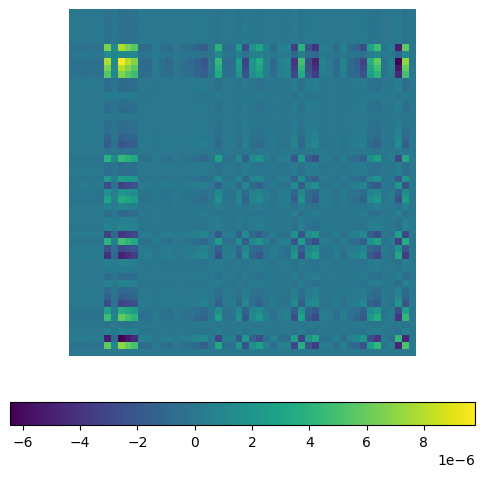
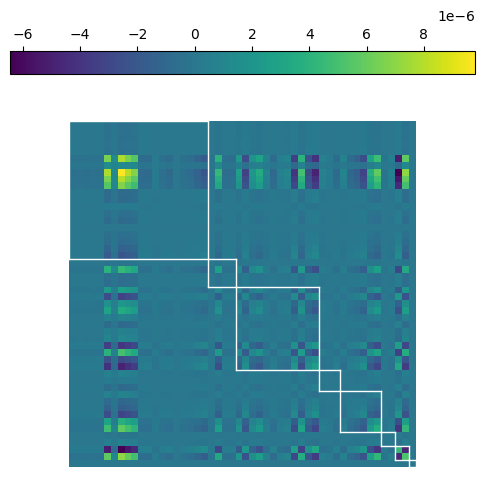
[ADD] Highlight blocks, create visualizations in paper

diff --git a/kfac_pinns_exp/exp04_gramian_contributions/demo_visualize_contributions.py b/kfac_pinns_exp/exp04_gramian_contributions/demo_visualize_contributions.py
@@ -2,8 +2,10 @@
 
 from itertools import product
 from os import makedirs, path
+from typing import List
 
 import matplotlib.pyplot as plt
+from numpy import cumsum
 from torch import allclose, manual_seed, rand, zeros_like
 from torch.nn import Linear, Sequential, Sigmoid
 
@@ -19,6 +21,34 @@ from kfac_pinns_exp.utils import combine_tiles, separate_into_tiles
 HEREDIR = path.dirname(path.abspath(__file__))
 FIGDIR = path.join(HEREDIR, "fig")
 makedirs(FIGDIR, exist_ok=True)
+
+
+def highlight_block_diagonal(ax: plt.Axes, dims: List[int]):
+    """Highlight block diagonals.
+
+    Args:
+        ax: Axes onto which the highlighting will be applied.
+        dims: Dimensions of the blocks on the diagonal.
+    """
+    style = {
+        "linewidth": 1,
+        "color": "w",
+    }
+
+    boundaries = cumsum([0] + dims)
+    # need to provide relative values in [0; 1] for line lengths
+    boundaries_rel = boundaries / boundaries[-1]
+
+    for i in range(len(boundaries) - 1):
+        start, end = boundaries[i : i + 2]
+        start_rel, end_rel = boundaries_rel[i : i + 2]
+
+        # NOTE imshow centers pixels at integers -> shift by -0.5
+        # NOTE y axis orientation for imshow is inverse of that for axvline -> 1-...
+        ax.axhline(y=start - 0.5, xmin=start_rel, xmax=end_rel, **style)
+        ax.axhline(y=end - 0.5, xmin=start_rel, xmax=end_rel, **style)
+        ax.axvline(x=start - 0.5, ymin=1 - start_rel, ymax=1 - end_rel, **style)
+        ax.axvline(x=end - 0.5, ymin=1 - start_rel, ymax=1 - end_rel, **style)
 
 
 def main():
@@ -77,8 +107,7 @@ def main():
     # make sure the contributions sum up to the full Gramian
     assert allclose(sum(contributions.values()), gram)
 
-    # visualize the contributions, use a shared color limit
-
+    # use a shared color limit
     vmin = min(*[c.min() for c in contributions.values()], gram.min())
     vmax = max(*[c.max() for c in contributions.values()], gram.max())
 
@@ -86,9 +115,27 @@ def main():
     fig, ax = plt.subplots(figsize=(6, 6))
     ax.axis("off")  # turn off ticks and tick labels
     im = ax.imshow(gram, vmin=vmin, vmax=vmax)
+    highlight_block_diagonal(ax, dims)
     # positioning of the color bar from https://stackoverflow.com/a/43425119
-    fig.colorbar(im, orientation="horizontal", pad=0.1)
+    fig.colorbar(im, orientation="horizontal", location="top", pad=0.1)
     fig.savefig(path.join(FIGDIR, "gram_full.png"), bbox_inches="tight")
+    plt.close(fig)
+
+    # visualize the block-diagonal Gram matrix
+    block_diag_gram = separate_into_tiles(gram, dims)
+    # set off-diagonal blocks to zero
+    for i, j in product(range(len(dims)), range(len(dims))):
+        print(i, j)
+        if i != j:
+            block_diag_gram[i][j] = zeros_like(block_diag_gram[i][j])
+    block_diag_gram = combine_tiles(block_diag_gram)
+
+    fig, ax = plt.subplots(figsize=(6, 6))
+    ax.axis("off")  # turn off ticks and tick labels
+    im = ax.imshow(block_diag_gram, vmin=vmin, vmax=vmax)
+    highlight_block_diagonal(ax, dims)
+    # positioning of the color bar from https://stackoverflow.com/a/43425119
+    fig.savefig(path.join(FIGDIR, "gram_block_diag.png"), bbox_inches="tight")
     plt.close(fig)
 
     # visualize the contributions
@@ -104,11 +151,34 @@ def main():
         fig, ax = plt.subplots(figsize=(6, 6))
         ax.axis("off")  # turn off ticks and tick labels
         im = ax.imshow(mat, vmin=vmin, vmax=vmax)
+        highlight_block_diagonal(ax, dims)
         plt.savefig(
             path.join(FIGDIR, f"gram_{child1}_{child2}.png"), bbox_inches="tight"
         )
         plt.close(fig)
         done.append({child1, child2})
+
+    # visualize the sum of terms from identical children
+    diag_children = sum(contributions[(c, c)] for c in CHILDREN)
+
+    fig, ax = plt.subplots(figsize=(6, 6))
+    ax.axis("off")  # turn off ticks and tick labels
+    im = ax.imshow(diag_children, vmin=vmin, vmax=vmax)
+    highlight_block_diagonal(ax, dims)
+    plt.savefig(path.join(FIGDIR, "gram_diag_children.png"), bbox_inches="tight")
+    plt.close(fig)
+
+    # visualize the sum of terms from different children
+    offdiag_children = sum(
+        contributions[(c1, c2)] for c1, c2 in product(CHILDREN, CHILDREN) if c1 != c2
+    )
+
+    fig, ax = plt.subplots(figsize=(6, 6))
+    ax.axis("off")  # turn off ticks and tick labels
+    im = ax.imshow(offdiag_children, vmin=vmin, vmax=vmax)
+    highlight_block_diagonal(ax, dims)
+    plt.savefig(path.join(FIGDIR, "gram_offdiag_children.png"), bbox_inches="tight")
+    plt.close(fig)
 
 
 if __name__ == "__main__":

diff --git a/paper/sections/laplacian_feedforward_nn.tex b/paper/sections/laplacian_feedforward_nn.tex
@@ -476,6 +476,73 @@ self-outer product forms the Gramian for a linear layer, as
 where (1) is the contribution from the forward pass, (2) is the contribution from the gradient backpropagation, and (3) is the contribution from the Hessian backpropagation.
 \toodoo{Visualize the different contributions on a $3\times 3$ grid.}
 
+
+\begin{figure}
+  \centering
+  Full Gramian\\
+  \includegraphics[width=0.43\linewidth]{../kfac_pinns_exp/exp04_gramian_contributions/fig/gram_full.png}
+
+  \begin{tabular}{ccc}
+    (forward, forward)
+    &
+      (forward, gradient)
+    &
+      (forward, Hessian)
+    \\
+    \includegraphics[width=0.33\linewidth]{../kfac_pinns_exp/exp04_gramian_contributions/fig/gram_output_output.png}
+    &
+      \includegraphics[width=0.33\linewidth]{../kfac_pinns_exp/exp04_gramian_contributions/fig/gram_output_grad_input.png}
+    &
+      \includegraphics[width=0.33\linewidth]{../kfac_pinns_exp/exp04_gramian_contributions/fig/gram_output_hess_input.png}
+    \\
+    &
+      (gradient, gradient)
+    &
+      (gradient, Hessian)
+    \\
+    &
+      \includegraphics[width=0.33\linewidth]{../kfac_pinns_exp/exp04_gramian_contributions/fig/gram_grad_input_grad_input.png}
+    &
+      \includegraphics[width=0.33\linewidth]{../kfac_pinns_exp/exp04_gramian_contributions/fig/gram_grad_input_hess_input.png}
+    \\
+    &
+    &
+      (Hessian, Hessian)
+    \\
+    &
+    &
+      \includegraphics[width=0.33\linewidth]{../kfac_pinns_exp/exp04_gramian_contributions/fig/gram_hess_input_hess_input.png}
+  \end{tabular}
+  \caption{Contributions to the Gramian from different children in the
+    computation graph.}\label{fig:gramian-contribution-children}
+\end{figure}
+
+\begin{figure}
+  \centering
+  Full Gramian\\
+  \includegraphics[width=0.43\linewidth]{../kfac_pinns_exp/exp04_gramian_contributions/fig/gram_full.png}
+
+  \begin{minipage}[t]{0.325\linewidth}
+    \centering
+    Block diagonal
+    \includegraphics[width=\linewidth]{../kfac_pinns_exp/exp04_gramian_contributions/fig/gram_block_diag.png}
+  \end{minipage}
+  \hfill
+  \begin{minipage}[t]{0.325\linewidth}
+    \centering
+    Summed children diagonal
+    \includegraphics[width=\linewidth]{../kfac_pinns_exp/exp04_gramian_contributions/fig/gram_diag_children.png}
+  \end{minipage}
+  \hfill
+  \begin{minipage}[t]{0.325\linewidth}
+    \centering
+    Summed children off-diagonal
+    \includegraphics[width=\linewidth]{../kfac_pinns_exp/exp04_gramian_contributions/fig/gram_offdiag_children.png}
+  \end{minipage}
+  \caption{Contribution of terms with identical versus non-identical children to the Gramian's block diagonal.
+    The strongest contribution to its block diagonal stems from the terms with identical children.}\label{fig:gramian-contribution-summed-children}
+\end{figure}
+
 The Jacobians from \Cref{eq:fisher-jacobians} allow to express the Fisher in
 terms of Kronecker-structured expressions consisting of 9 terms in total.
 
